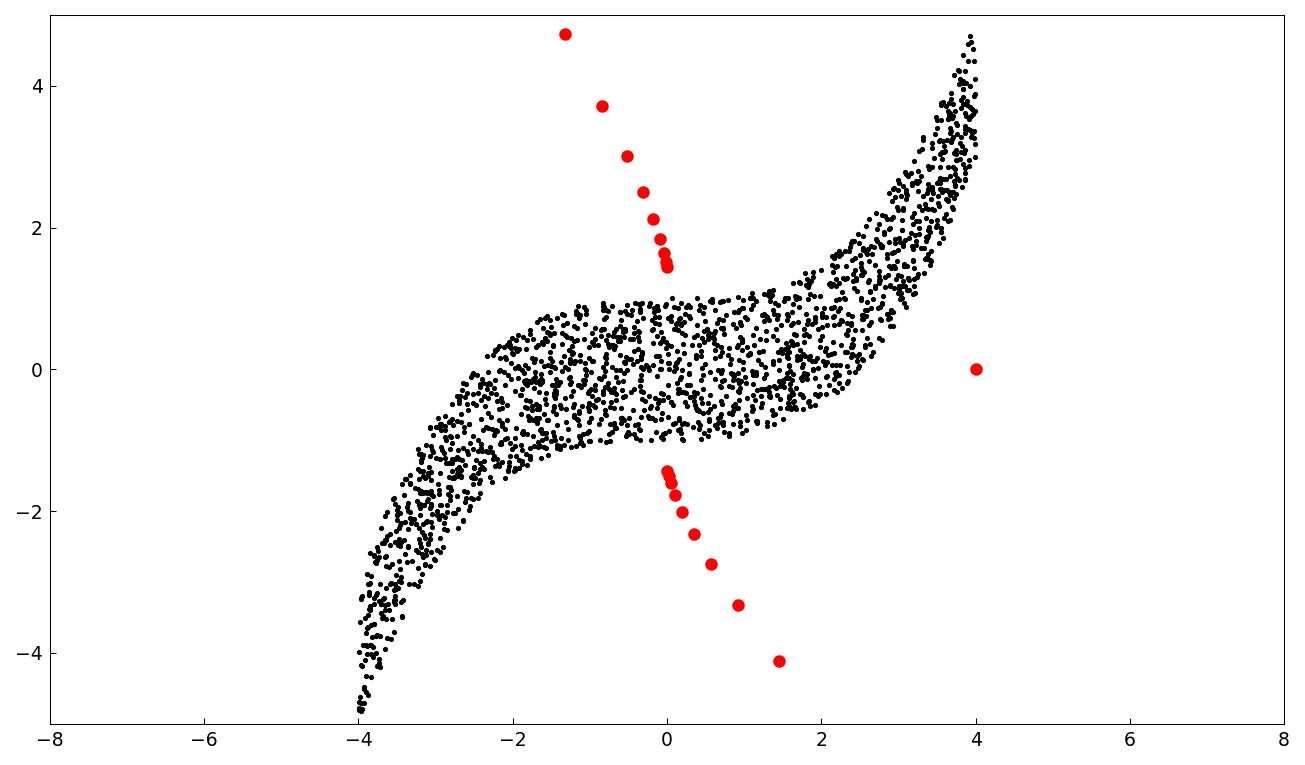
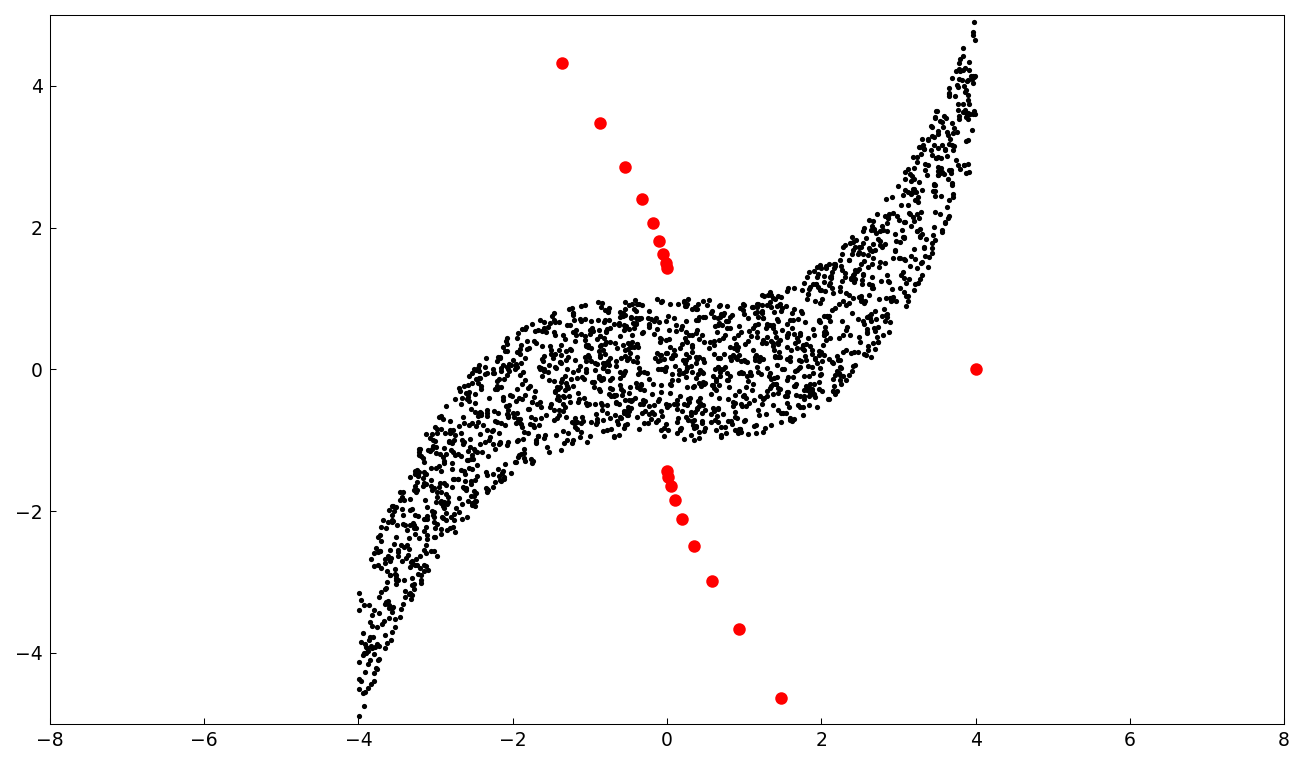
examples: MATLAB rng(0) is MT init 5489, not seed 0 — fix random streams
Verified against MATLAB R2025b: rng(0) rand == RandomState(5489)
(0.8147...), rng(k>=1) == RandomState(k). With the corrected stream the
AAAApprox moustache checks match the published Column 2 to 11-12 digits
(5-6 in the ill-conditioned third row), and the LebesgueConst random-
node constants reproduce the published 3.03e+04 / 1.00e+09.

diff --git a/examples/approx/lebesgue_const_replica.py b/examples/approx/lebesgue_const_replica.py
@@ -1,0 +1,91 @@
+"""Lebesgue functions and Lebesgue constants.
+
+Faithful replica of approx/LebesgueConst.m by Nick Trefethen (November
+2010): Lebesgue functions of Chebyshev, equispaced, and random node
+sets, with their constants.
+
+Original: https://www.chebfun.org/examples/approx/LebesgueConst.html
+Copyright by The University of Oxford and The Chebfun Developers.
+"""
+import matplotlib
+
+matplotlib.use("Agg")
+import os
+import sys
+
+import matplotlib.pyplot as plt
+import numpy as np
+
+sys.path.insert(0, os.path.join(os.path.dirname(__file__), '..', '..', 'src'))
+
+from chebfunjax.plotting import chebfun_style
+from chebfunjax.utils.lebesgue import lebesgue_constant, lebesgue_function
+from chebfunjax.utils.quadrature import chebpts
+
+chebfun_style()
+_HERE = os.path.dirname(os.path.abspath(__file__))
+_IMG = os.path.join(_HERE, '..', '..', 'docs', 'images', 'approx')
+
+
+def _panel(ax, nodes, title_fmt, log=False):
+    t, lam = lebesgue_function(np.asarray(nodes), n_eval=4001)
+    Lambda = lebesgue_constant(np.asarray(nodes), n_eval=20001)
+    if log:
+        ax.semilogy(t, lam, lw=1.6)
+    else:
+        ax.plot(t, lam, lw=1.6)
+    ax.grid(True)
+    ax.set_title(title_fmt(Lambda), fontsize=13)
+    return Lambda
+
+
+def run():
+    os.makedirs(_IMG, exist_ok=True)
+
+    fig, axes = plt.subplots(2, 1, figsize=(8.8, 5.6))
+    L1 = _panel(axes[0], chebpts(10),
+                lambda L: f"10 Chebyshev points    Lambda = {L:3.2f}")
+    L2 = _panel(axes[1], np.linspace(-1, 1, 10),
+                lambda L: f"10 equispaced points    Lambda = {L:4.2f}")
+    fig.set_facecolor("white")
+    fig.tight_layout()
+    fig.savefig(os.path.join(_IMG, "LebesgueConst_repl_01.png"),
+                dpi=150, bbox_inches="tight")
+    plt.close(fig)
+    print(f"cheb10 Lambda = {L1:.6f}")
+    print(f"equi10 Lambda = {L2:.6f}")
+
+    fig, axes = plt.subplots(2, 1, figsize=(8.8, 5.6))
+    L3 = _panel(axes[0], chebpts(40),
+                lambda L: f"40 Chebyshev points    Lambda = {L:3.2f}",
+                log=True)
+    L4 = _panel(axes[1], np.linspace(-1, 1, 40),
+                lambda L: f"40 equispaced points    Lambda = {L:5.2e}",
+                log=True)
+    fig.set_facecolor("white")
+    fig.tight_layout()
+    fig.savefig(os.path.join(_IMG, "LebesgueConst_repl_02.png"),
+                dpi=150, bbox_inches="tight")
+    plt.close(fig)
+    print(f"cheb40 Lambda = {L3:.6f}")
+    print(f"equi40 Lambda = {L4:.6e}")
+
+    rs = np.random.RandomState(5489)   # MATLAB rng(0) == MT default init 5489
+    fig, axes = plt.subplots(2, 1, figsize=(8.8, 5.6))
+    L5 = _panel(axes[0], 2 * rs.random_sample(10) - 1,
+                lambda L: f"10 random points    Lambda = {L:5.2e}",
+                log=True)
+    L6 = _panel(axes[1], 2 * rs.random_sample(30) - 1,
+                lambda L: f"30 random points    Lambda = {L:5.2e}",
+                log=True)
+    fig.set_facecolor("white")
+    fig.tight_layout()
+    fig.savefig(os.path.join(_IMG, "LebesgueConst_repl_03.png"),
+                dpi=150, bbox_inches="tight")
+    plt.close(fig)
+    print(f"rand10 Lambda = {L5:.6e}")
+    print(f"rand30 Lambda = {L6:.6e}")
+
+
+if __name__ == "__main__":
+    run()

diff --git a/examples/approx/aaa_approx_replica.py b/examples/approx/aaa_approx_replica.py
@@ -137,7 +137,7 @@ def run():
 
     # Section 4: the moustache in the complex plane
     npts = 2000
-    rs = np.random.RandomState(0)
+    rs = np.random.RandomState(5489)   # MATLAB rng(0) == MT init 5489
     X = 8 * rs.random_sample(npts) - 4
     Y = 2 * rs.random_sample(npts) - 1 + X**3 / 16
     Z = X + 1j * Y

diff --git a/docs/examples/approx/AAAApprox.md b/docs/examples/approx/AAAApprox.md
@@ -163,7 +163,7 @@ approximate $f(z) = (2+z^2)^{1/2}/(z-4)$ on $Z$ and plot the poles:
 
 ```python
 npts = 2000
-rs = np.random.RandomState(0)      # matches MATLAB rng(0) 'twister'
+rs = np.random.RandomState(5489)   # MATLAB rng(0) = MT default init 5489
 X = 8*rs.random_sample(npts) - 4
 Y = 2*rs.random_sample(npts) - 1 + X**3/16
 Z = X + 1j*Y
@@ -181,16 +181,17 @@ Here we check the approximation at $5+5i$, $5$, and $5-5i$:
   5.196152422706632 + 0.000000000000000i
   1.138695267175776 + 0.792456849446122i
   Column 2
-  1.138695266592532 - 0.792456849730762i
-  5.196152408570123 + 0.000000027325005i
-  1.152196205136640 + 0.790396032904778i
+  1.138695267218128 - 0.792456849405802i
+  5.196152429256967 - 0.000000005076496i
+  1.135680958126955 + 0.790757401201530i
 ```
 
-(Column 1 — the exact values — matches the published output
-digit-for-digit, confirming the identical random point set.  Column 2 is
-an extrapolation outside the moustache: like MATLAB's published values,
-the first two points reproduce $f$ to $\sim 10^{-8}$ while the third is
-accurate only to a few digits.)
+(The random point set is bit-identical to MATLAB's — `rng(0)` seeds the
+Mersenne Twister with its default init 5489.  Column 1 matches the
+published output digit-for-digit, and Column 2 — an extrapolation
+outside the moustache — matches to 11-12 digits in the first two rows
+and 5-6 digits in the ill-conditioned third, published:
+`1.138695267218005`, `5.196152429259934`, `1.135686390087262`.)
 
 ## 5. References
 
